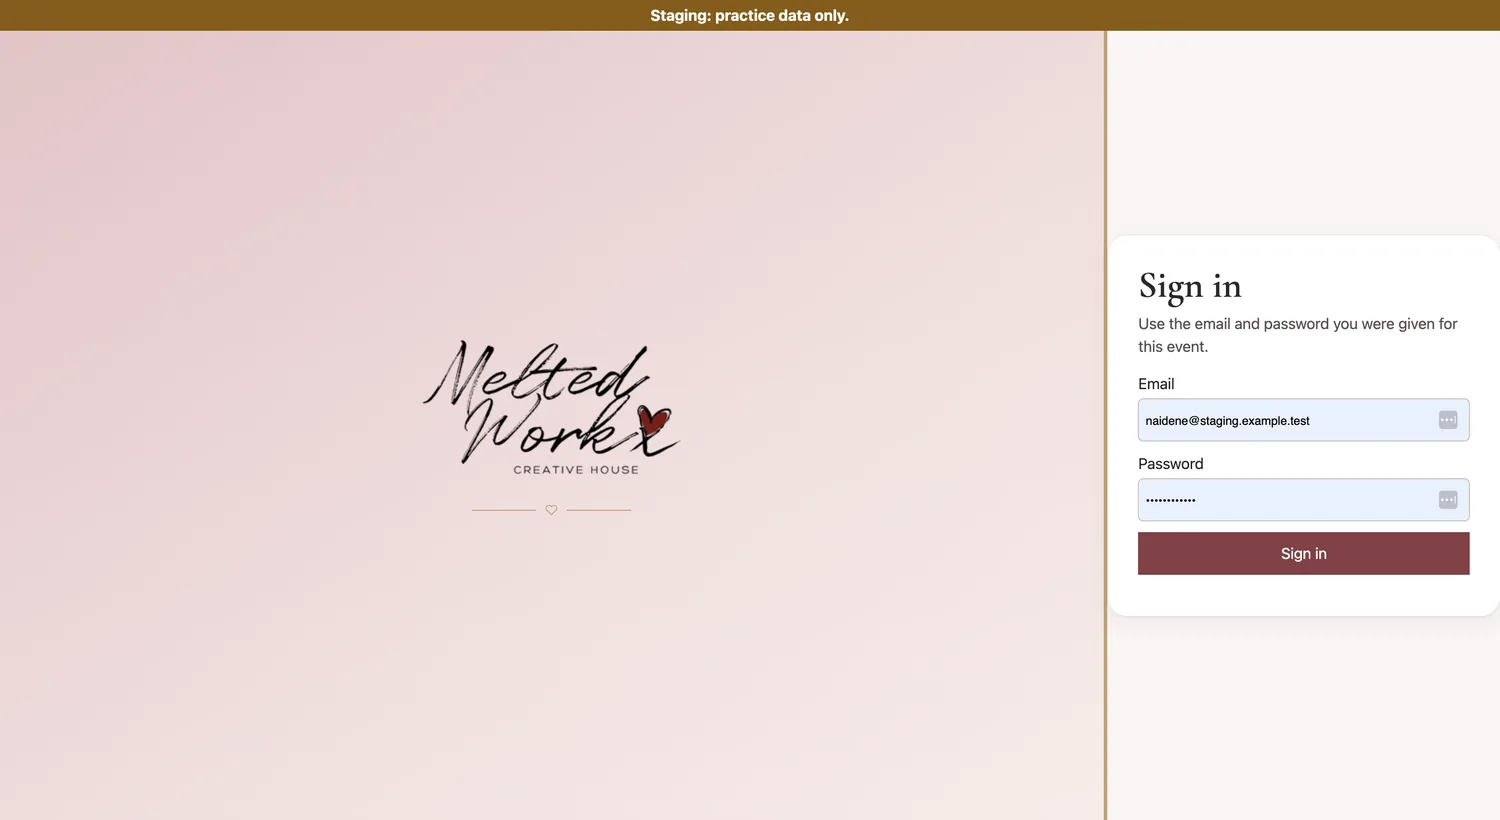
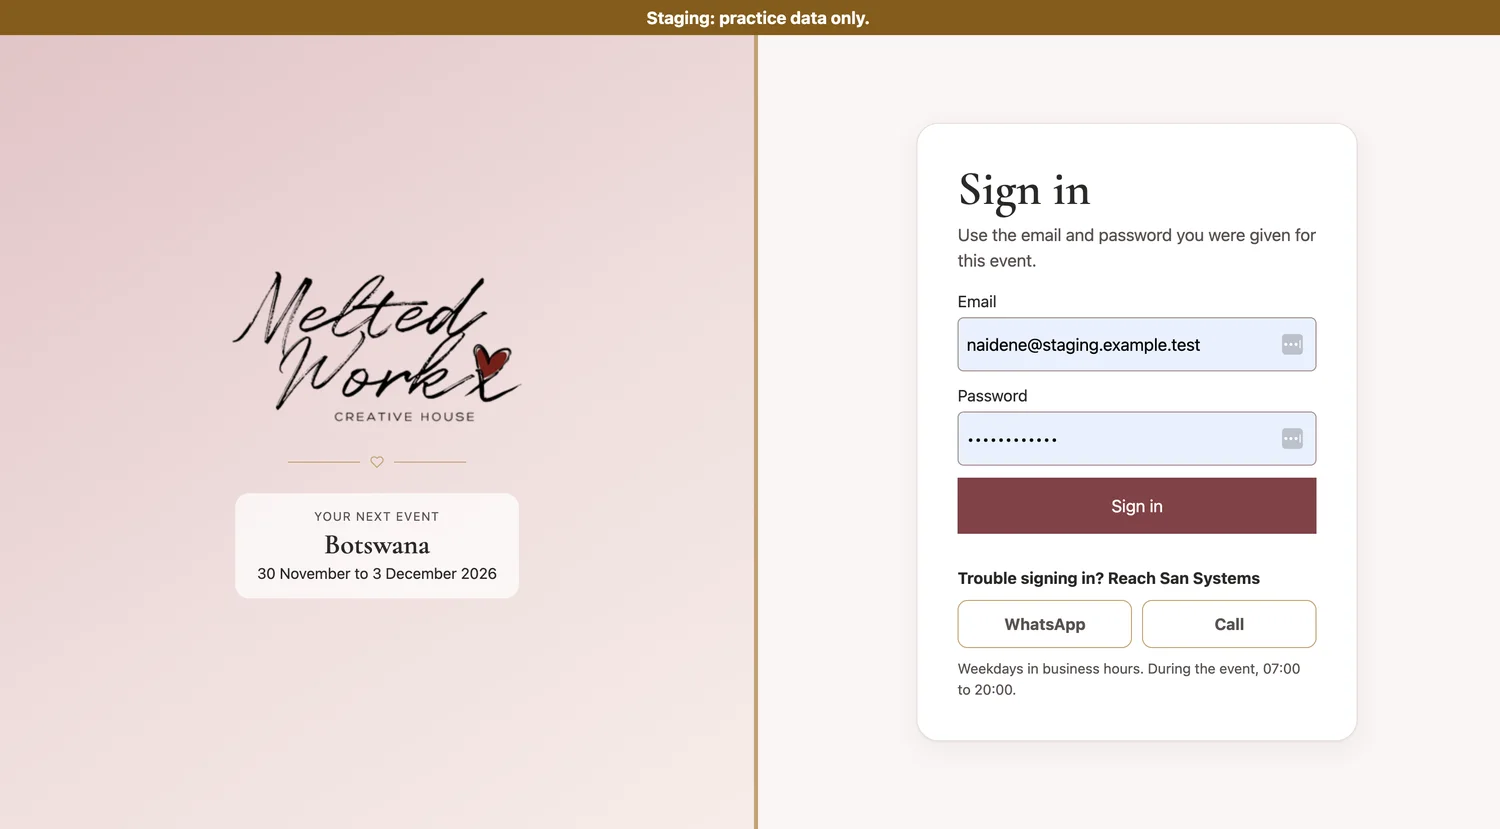
Guide: sign-in lesson updated to the new login page (event card, help buttons), 6 dots; fix bold in pop-up text
Claude-Session: https://claude.ai/code/session_01N73uZ8eB831CeU7QP6mg8R

diff --git a/meltedworkx-001/guide/index.html b/meltedworkx-001/guide/index.html
@@ -54,7 +54,7 @@ h1{font-family:var(--display);font-weight:600;font-size:40px;font-size:clamp(34p
 .tip{position:absolute;z-index:5;background:var(--surface);color:var(--ink);border:2px solid var(--gold);border-radius:12px;padding:12px 38px 12px 14px;box-shadow:0 10px 30px rgba(0,0,0,.28);font-size:15.5px;line-height:1.45;display:none}
 .tip.on{display:block}
 .tip.below{position:relative;margin:8px;box-shadow:none}
-.tip b{display:block;font-size:16.5px;margin-bottom:3px}
+.tip b:first-child{display:block;font-size:16.5px;margin-bottom:3px}
 .tip .x{position:absolute;top:4px;right:4px;width:34px;height:34px;border:0;background:transparent;color:var(--muted);font-size:22px;line-height:1;border-radius:8px;padding:0}
 .pin{position:absolute;transform:translate(-50%,-50%);width:34px;height:34px;border-radius:50%;border:2.5px solid #fff;background:#8a3e45;color:#fff;font-weight:700;font-size:15px;display:grid;place-items:center;box-shadow:0 2px 8px rgba(0,0,0,.35);padding:0}
 .pin::before{content:"";position:absolute;top:-9px;right:-9px;bottom:-9px;left:-9px;border-radius:50%;border:2px solid #8a3e45;opacity:0;animation:pulse 2.2s infinite}
@@ -155,10 +155,12 @@ const LESSONS=[
 {id:"sign-in",name:"Sign in",eyebrow:"Lesson 1",title:"Sign in",
  why:"One web address, your email and your password. It works on a laptop, an iPad or a phone.",
  screens:[{label:"Sign-in page",img:"login",pins:[
-  P(49.96,3.5,"The gold strip","This strip means you are in the practice version. Every guest in it is invented and nothing is sent to anyone. The real version has no gold strip."),
-  P(86.88,51.14,"Email","Type the login email Deon sent you. Each of you has your own."),
-  P(86.88,60.87,"Password","Type your password. Keep it to yourself; never send it by email or in a chat."),
-  P(96.4,67.4,"Sign in","Click here. You land on your list of events.")],
+  P(68,2.11,"The gold strip","This strip means you are in the practice version. Every guest in it is invented and nothing is sent to anyone. The real version has no gold strip."),
+  P(35.5,66,"Your event","Shows which event you are signing in to, so you know you are in the right place."),
+  P(86.37,41.5,"Email","Type the login email Deon sent you. Each of you has your own."),
+  P(86.37,52.88,"Password","Type your password. Keep it to yourself; never send it by email or in a chat."),
+  P(85.02,60.96,"Sign in","Click here. You land on your list of events."),
+  P(86.37,75.28,"Need help?","Tap <b>WhatsApp</b> or <b>Call</b> to reach San Systems. Weekdays in business hours; during the event, 07:00 to 20:00.")],
   steps:["Open the link Deon sent you, in Chrome or Safari.","Type your email and password.","Click <b>Sign in</b>."]}],
  quiz:{q:"You see a gold strip across the top of the page. What does it tell you?",o:["Something is broken","This is the practice version, so nothing here is real","You are signed out"],a:1,
   why:"Gold strip = practice. Invented guests, and no message leaves the platform."}},
